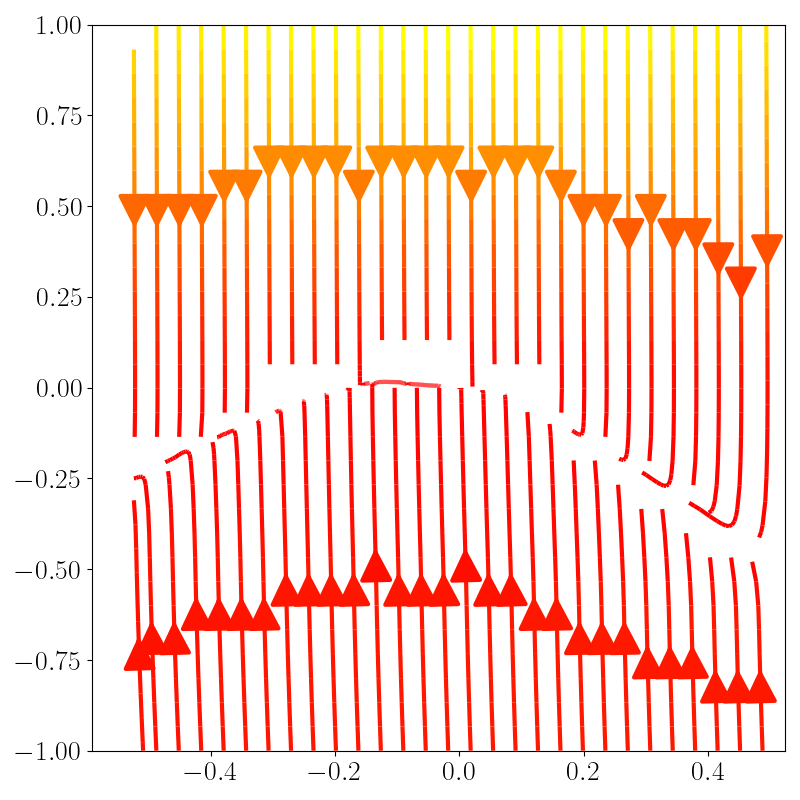
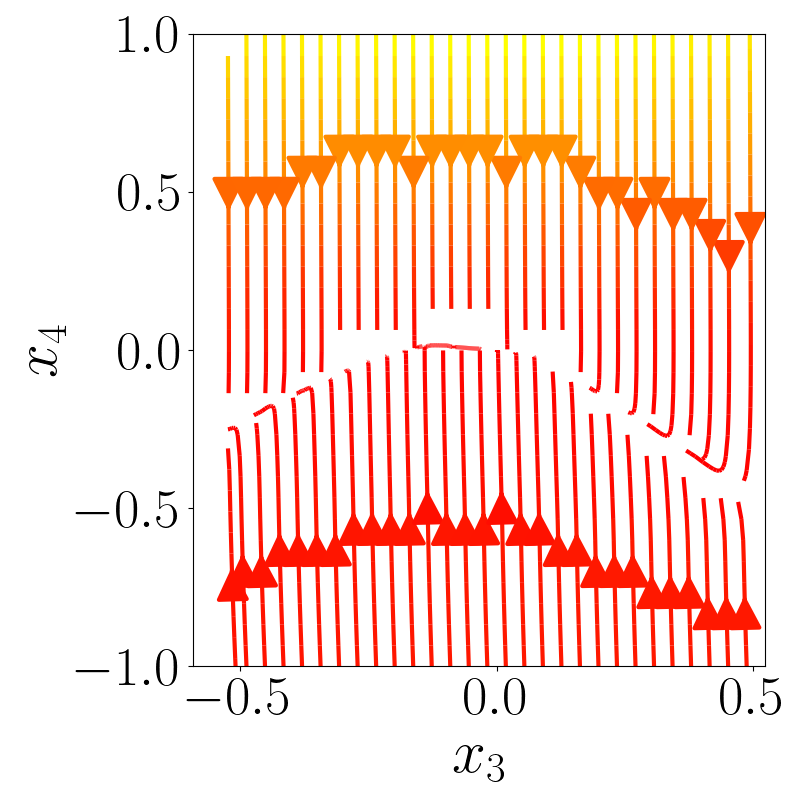
upload

diff --git a/plots/plot_model.py b/plots/plot_model.py
@@ -29,7 +29,8 @@ def plot_dashed_circle(center_x=0, center_y=0, radius=1, color='blue', linestyle
 
 def plot_cartpole(model:th.ScriptModule):
     plt.rc('text', usetex=True) # use latex
-    label_size = 20
+    label_size = 40
+    font_size =44
     theta_max = np.pi/6
     theta_dot_max = 1.0
     theta = np.linspace(-theta_max, theta_max, 200)
@@ -56,8 +57,8 @@ def plot_cartpole(model:th.ScriptModule):
                     dx2.reshape(200,200),
                     color=speed.reshape(200,200),cmap='autumn',arrowsize=5,linewidth=3.0, zorder=1)
     
-    #plt.xlabel(r"$x_3$",fontsize=18)
-    #plt.ylabel(r"$x_4$",fontsize=18)
+    plt.xlabel(r"$x_3$",fontsize=font_size)
+    plt.ylabel(r"$x_4$",fontsize=font_size)
     plt.tick_params(labelsize=label_size)
     plt.tight_layout()
     plt.savefig("./figures/cartpole/cartpole_LDNA.png")
@@ -71,8 +72,8 @@ def plot_cartpole(model:th.ScriptModule):
     plt.figure(figsize=(8,8))
     plt.streamplot(theta_tmp,theta_dot_tmp,dx1,dx2,color=speed,cmap='autumn',arrowsize=5,linewidth=3.0, zorder=1)
 
-    #plt.xlabel(r"$x_3$",fontsize=18)
-    #plt.ylabel(r"$x_4$",fontsize=18)
+    plt.xlabel(r"$x_3$",fontsize=font_size)
+    plt.ylabel(r"$x_4$",fontsize=font_size)
     plt.tick_params(labelsize=label_size)
     plt.tight_layout()
     plt.savefig("./figures/cartpole/cartpole_LDLA.png")
@@ -91,8 +92,8 @@ def plot_cartpole(model:th.ScriptModule):
                     dtheta_dot.reshape(200,200),
                     color=speed.reshape(200,200),cmap='autumn',arrowsize=5,linewidth=3.0, zorder=1)
 
-    #plt.xlabel(r"$x_3$",fontsize=18)
-    #plt.ylabel(r"$x_4$",fontsize=18)
+    plt.xlabel(r"$x_3$",fontsize=font_size)
+    plt.ylabel(r"$x_4$",fontsize=font_size)
     plt.tick_params(labelsize=label_size)
     plt.tight_layout()
     plt.savefig("./figures/cartpole/cartpole_RDNA.png")
@@ -110,8 +111,8 @@ def plot_cartpole(model:th.ScriptModule):
                     dtheta_dot.reshape(200,200),
                     color=speed.reshape(200,200),cmap='autumn',arrowsize=5,linewidth=3.0, zorder=1)
 
-    #plt.xlabel(r"$x_3$",fontsize=18)
-    #plt.ylabel(r"$x_4$",fontsize=18)
+    plt.xlabel(r"$x_3$",fontsize=font_size)
+    plt.ylabel(r"$x_4$",fontsize=font_size)
     plt.tick_params(labelsize=label_size)
     plt.tight_layout()
     plt.savefig("./figures/cartpole/cartpole_RDLA.png")

diff --git a/main.py b/main.py
@@ -103,6 +103,16 @@ class MLAgent(nn.Module):
         return th.jit.load("./saved_model/{}.zip".format(self.name))
 
 if __name__ == "__main__":
+    agent = MLAgent(name = "cartpole",
+                    dynamics=CartPole,
+                    model_class=Stable_Dynamics,
+                    batch_size=128,
+                    data_size=21,
+                    lr=0.01,
+                    device="cuda:0")
+    #agent.train(10)
+    model = agent.load_model()
+    plot_cartpole(model)
     # def eta(x): return (x[:, 0] - 1.5)**2 + x[:, 1]**2 - 1
     # agent = MLAgent(name = "safe_vanderpol",
     #                 dynamics=VanDerPol,
@@ -117,14 +127,14 @@ if __name__ == "__main__":
     # #model = agent.load_model()
     # plot_vanderpol(model)
 
-    agent = MLAgent(name = "L2_vanderpol",
-                    dynamics=VanDerPol,
-                    model_class=L2_Dynamics,
-                    batch_size=128,
-                    data_size=21,
-                    lr=0.01,
-                    device="cuda:0")
-    agent.train(10)
+    # agent = MLAgent(name = "L2_vanderpol",
+    #                 dynamics=VanDerPol,
+    #                 model_class=L2_Dynamics,
+    #                 batch_size=128,
+    #                 data_size=21,
+    #                 lr=0.01,
+    #                 device="cuda:0")
+    # agent.train(10)
   
         
        
